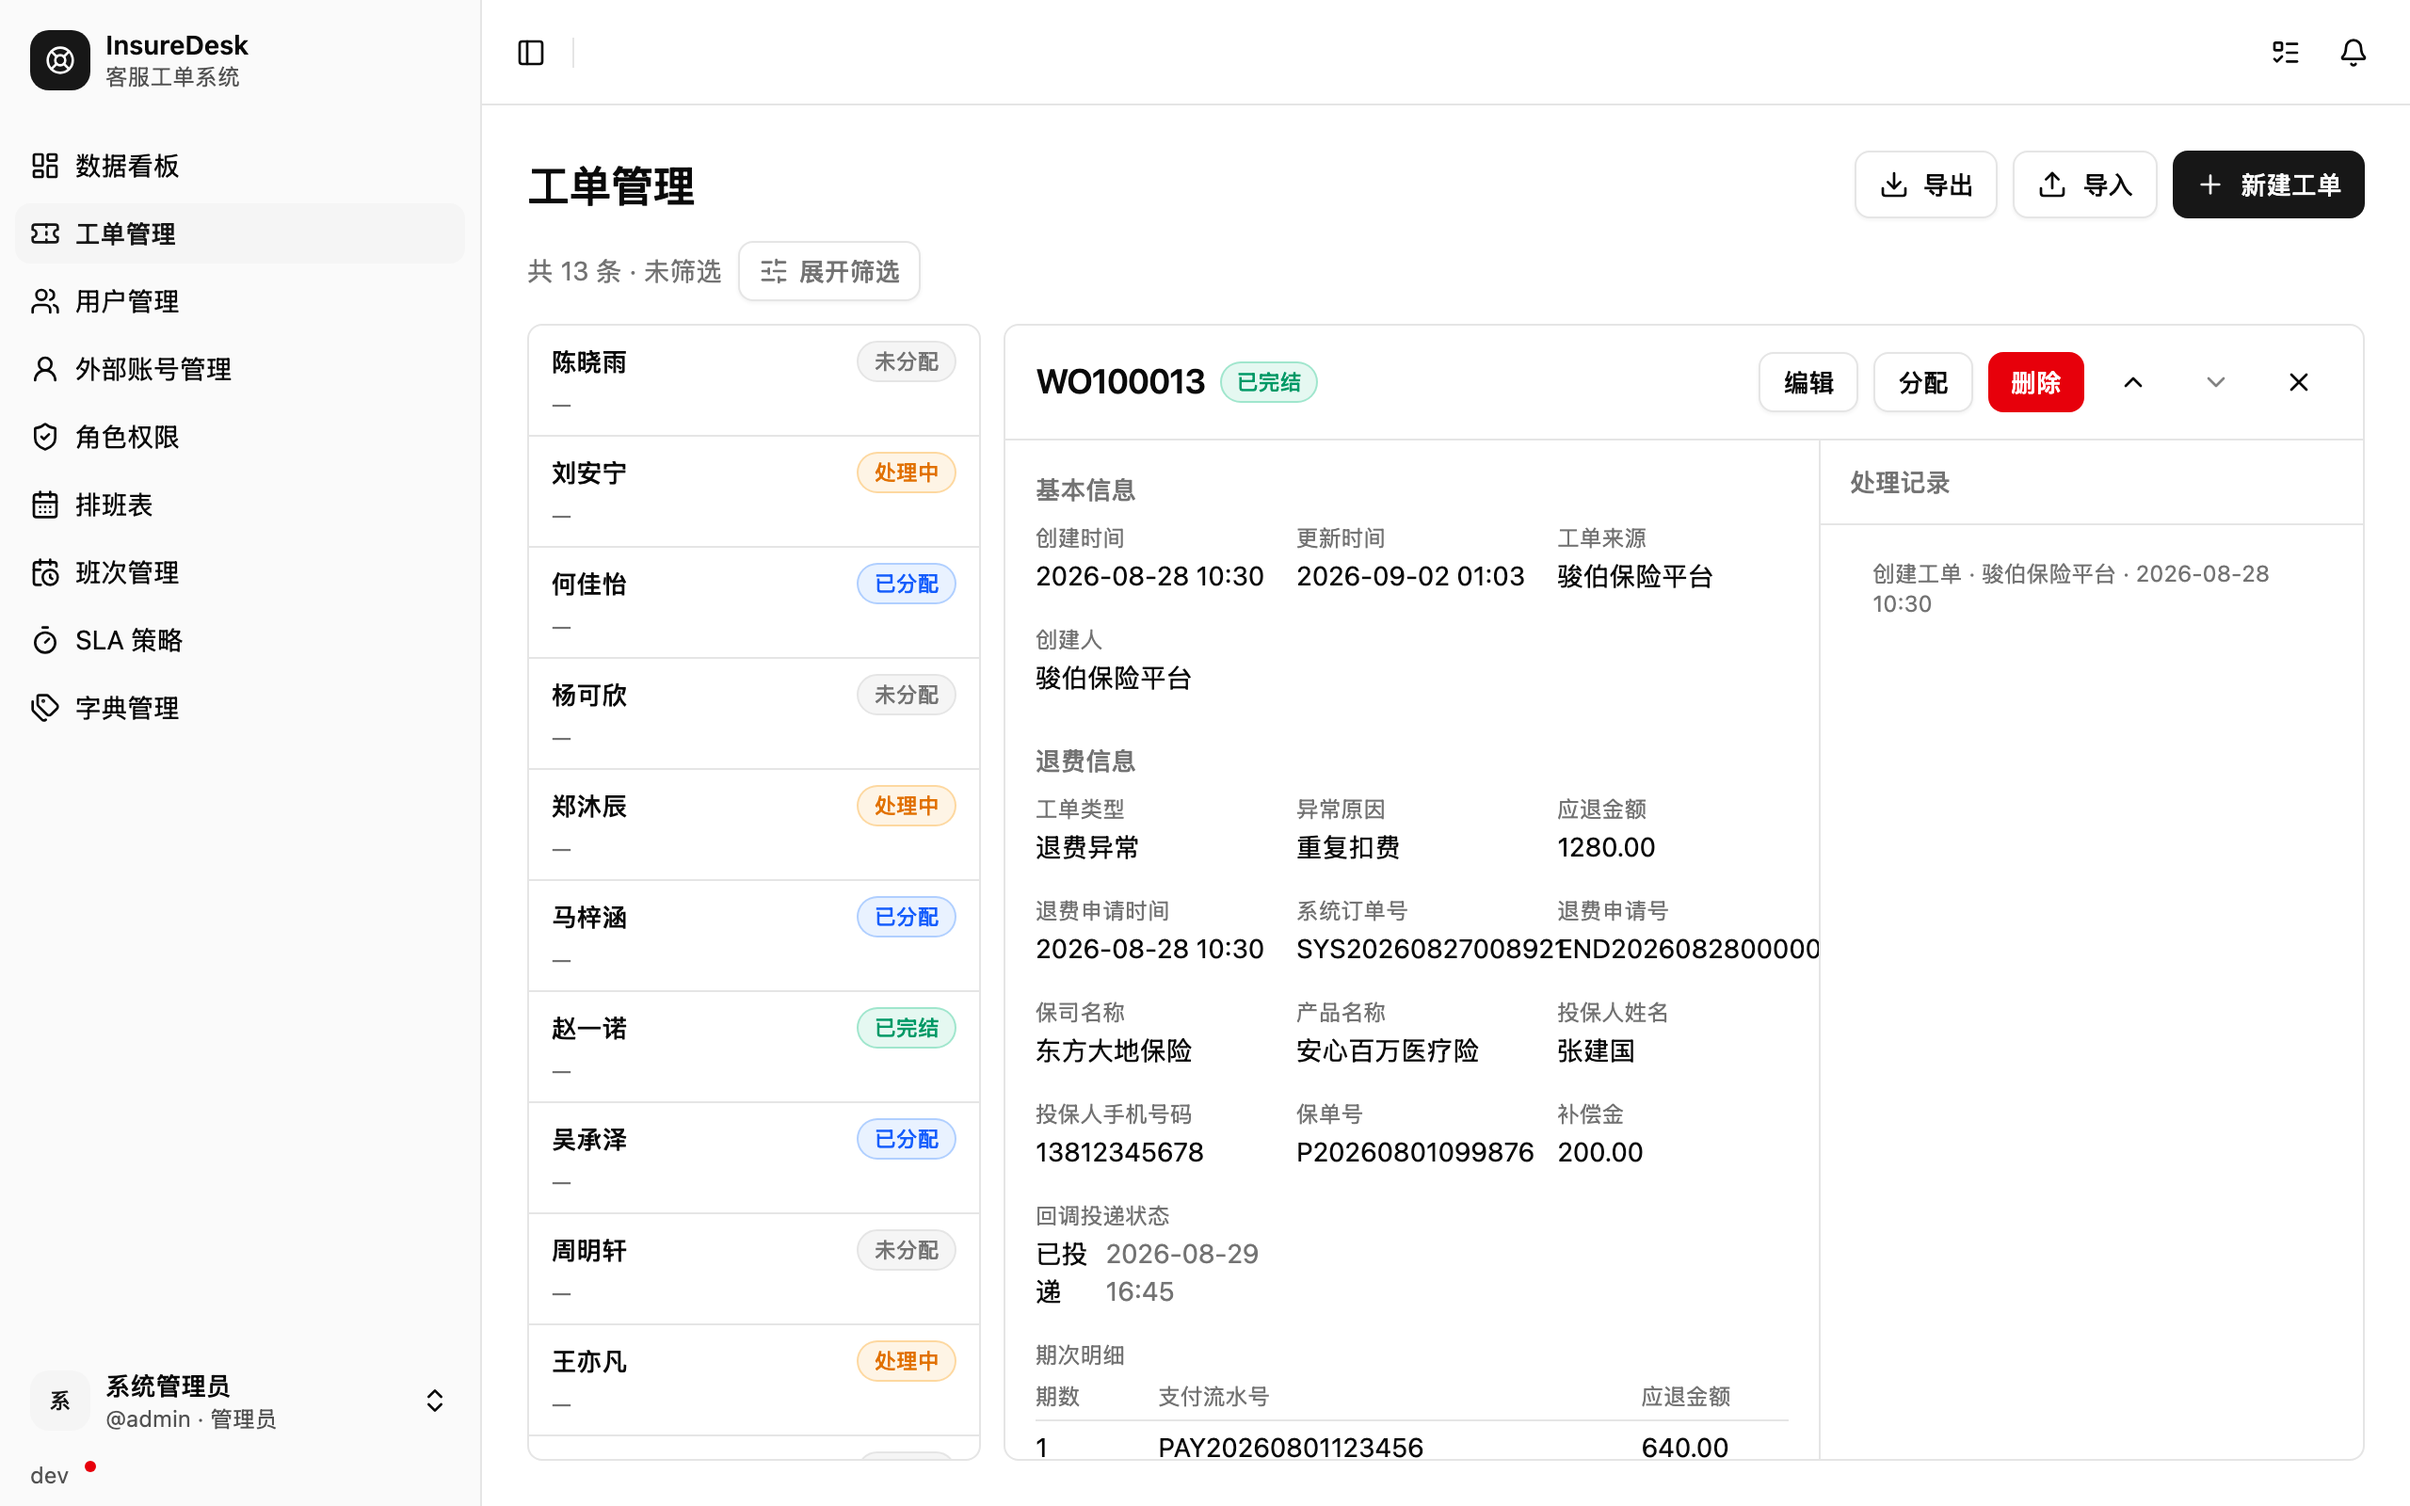
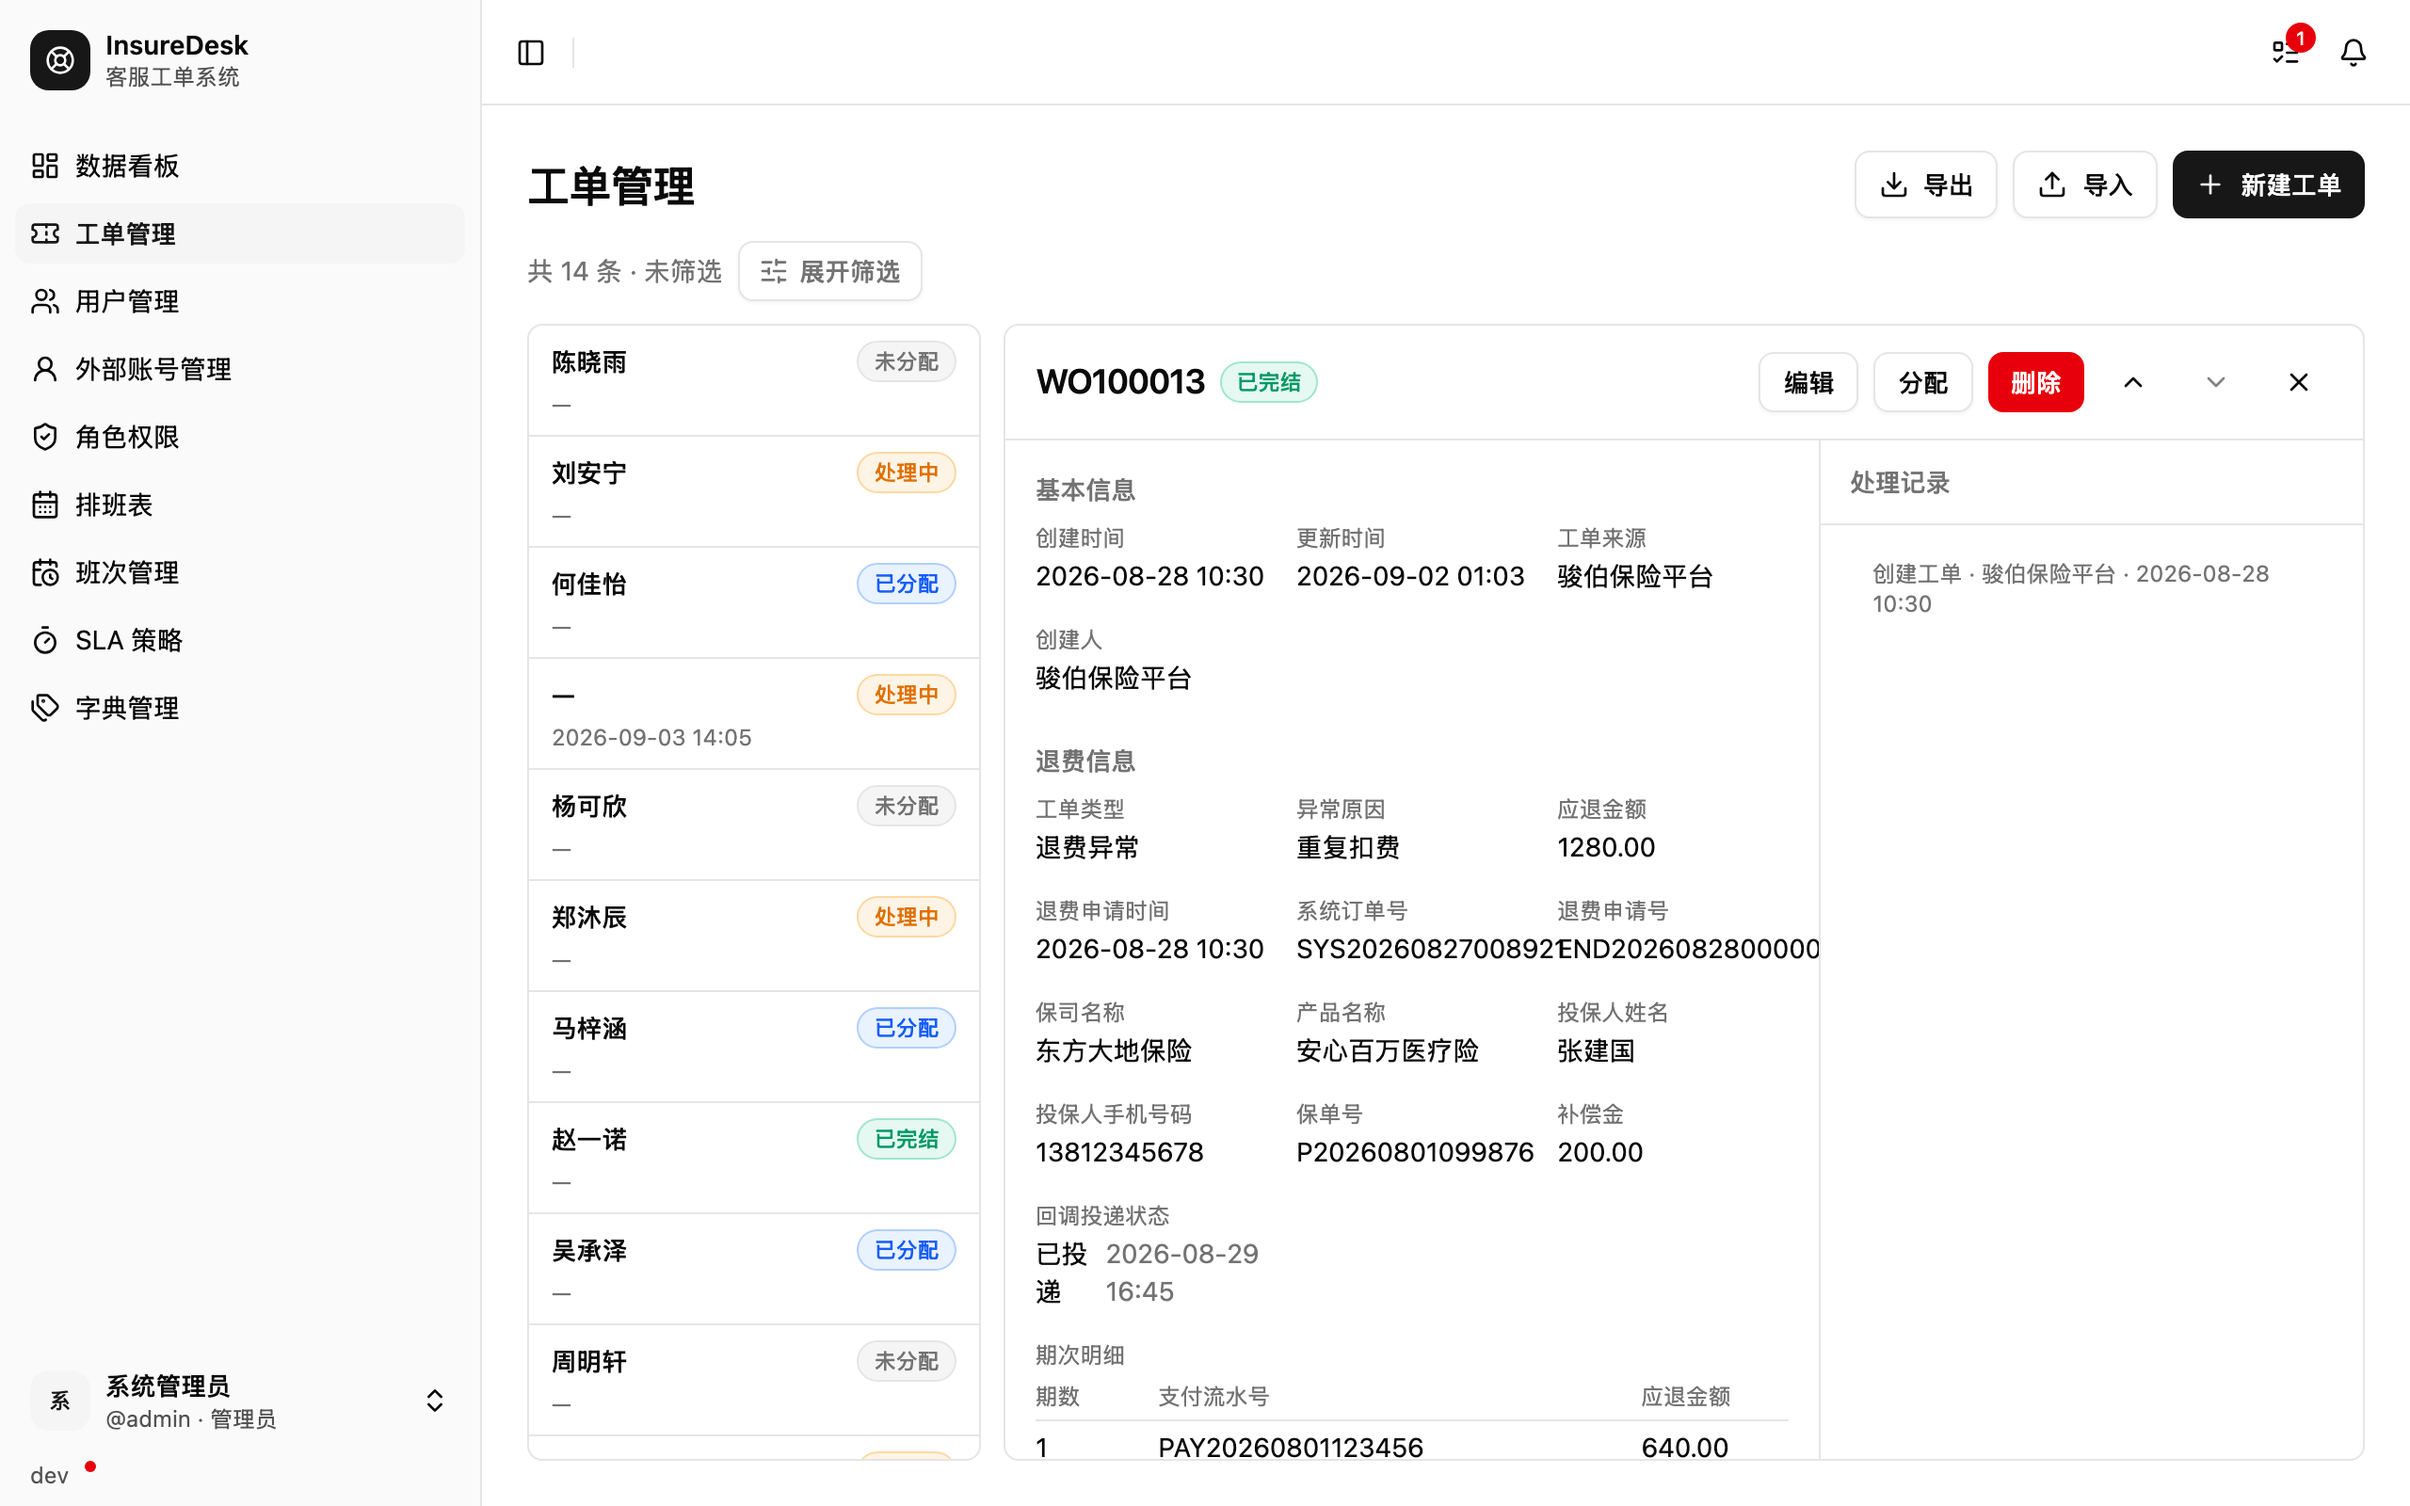
docs(changelog): v2026.09.0 更新日志

diff --git a/changelog/v2026.09.0/sla-kind-groups.setup.ts b/changelog/v2026.09.0/sla-kind-groups.setup.ts
@@ -1,0 +1,27 @@
+import { DEFAULT_SLA_POLICIES, TicketKindKey } from "@insuredesk/shared";
+import { prisma } from "../../apps/api/src/db.ts";
+import {
+  DEFAULT_SLA_POLICY_DESCRIPTIONS,
+  seedRefundDefaultSlaPolicy,
+} from "../../apps/api/prisma/seed-data.ts";
+import { requireTicketKindId } from "../../apps/api/src/services/ticket-kind.service.ts";
+
+const kindId = await requireTicketKindId(prisma, TicketKindKey.Complaint);
+for (const [index, defaults] of DEFAULT_SLA_POLICIES.entries()) {
+  await prisma.slaPolicy.upsert({
+    where: { name: defaults.name },
+    update: {},
+    create: {
+      name: defaults.name,
+      description: DEFAULT_SLA_POLICY_DESCRIPTIONS[defaults.name] ?? null,
+      sortOrder: index + 1,
+      active: true,
+      firstResponseMinutes: defaults.firstResponseMinutes,
+      overdueHours: defaults.overdueHours,
+      reminderRules: defaults.reminderRules,
+      kindId,
+    },
+  });
+}
+await seedRefundDefaultSlaPolicy(prisma);
+await prisma.$disconnect();
